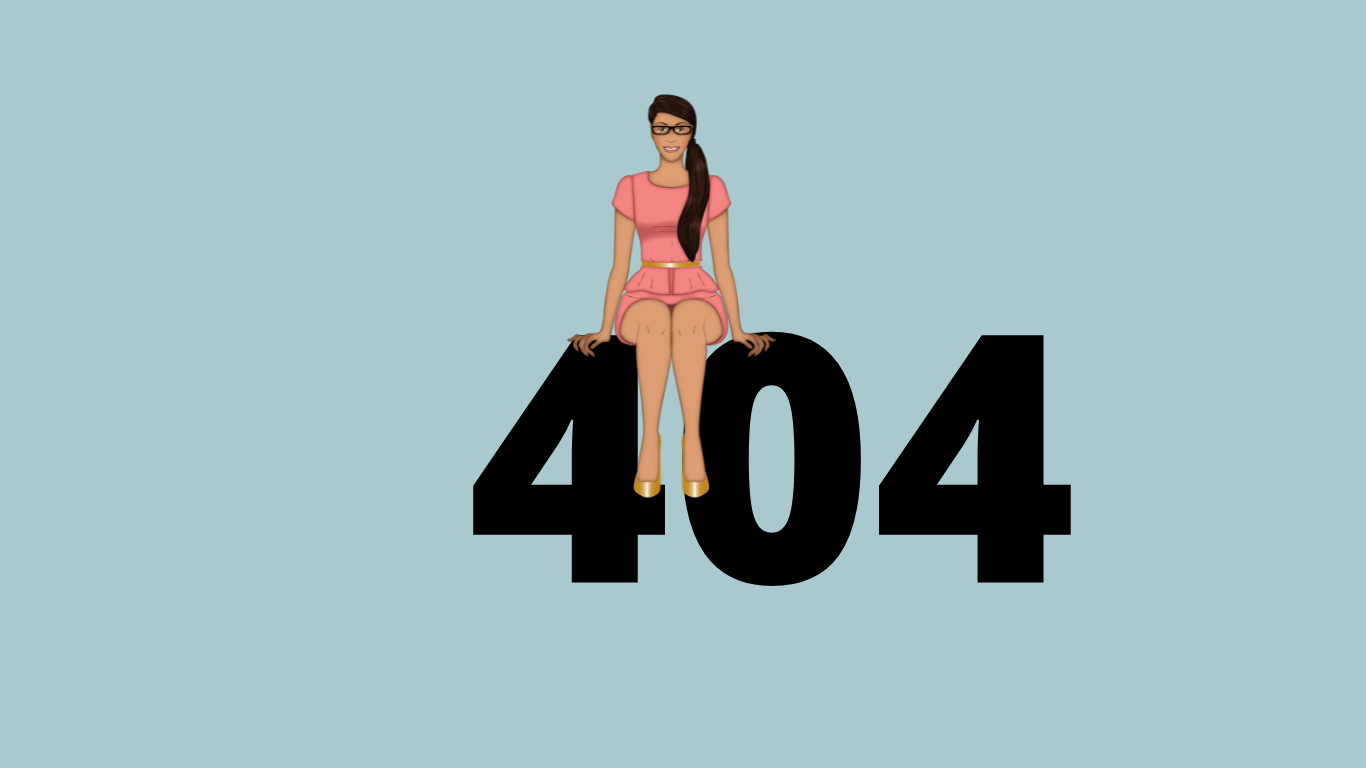
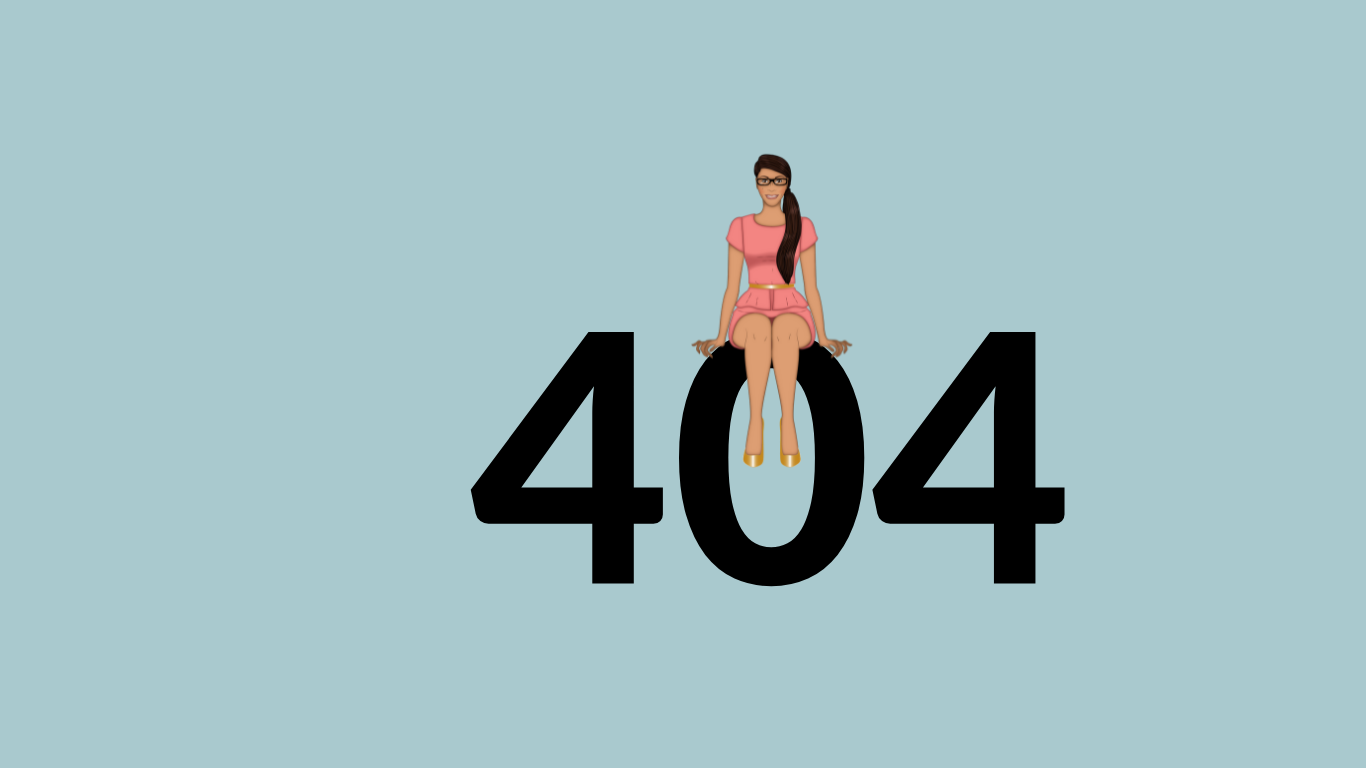
added custom 404 to readme

Changed region(s): [[0.3382, 0.125, 0.7994, 0.7812]]

diff --git a/README.md b/README.md
@@ -65,7 +65,7 @@ A Favicon was added to the site. I designed the initials LB using lato font and 
 ![Colours](/static/media/mood-board.png)
 
 ##### LOGO
-I have created a simple logo using **Lato** font in bold and normal to represent the purpose of the website using Canva and to maintain the consistency of fonts used throughout the site.
+I have created a simple logo using **Lato** font in bold and normal to represent the purpose of the website using [Canva](https://www.canva.com/) and to maintain the consistency of fonts used throughout the site.
 
 ## Wireframes
 
@@ -167,6 +167,12 @@ You can find my wireframes below:
 
 ![Sign in](static/media/sign-in.png)
 ![Toast signedin](static/media/toast-signedin.png)
+
+- __404 Page__
+  - A custom 404 page was created for when the user navigates to a link that doesn't exist.
+  - I created the image with [Canva](https://www.canva.com/) by using branding colours and fonts.
+
+![404 Page](static/media/404.png)
 
 ##### **USER PROFILE**
 User profile displays username and a form to update delivery information as well as a view to see previous orders.
